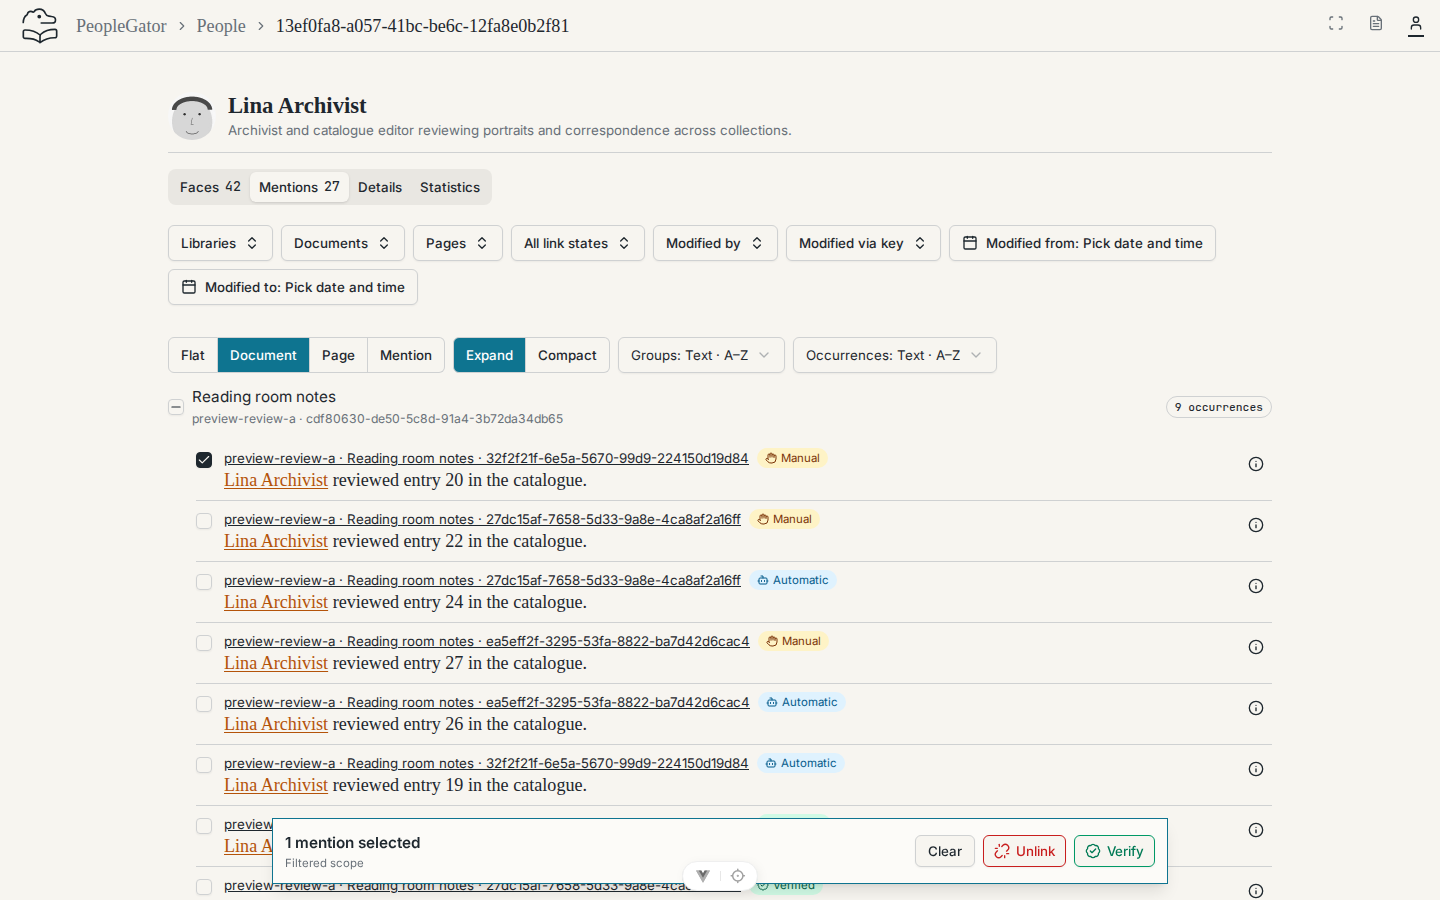
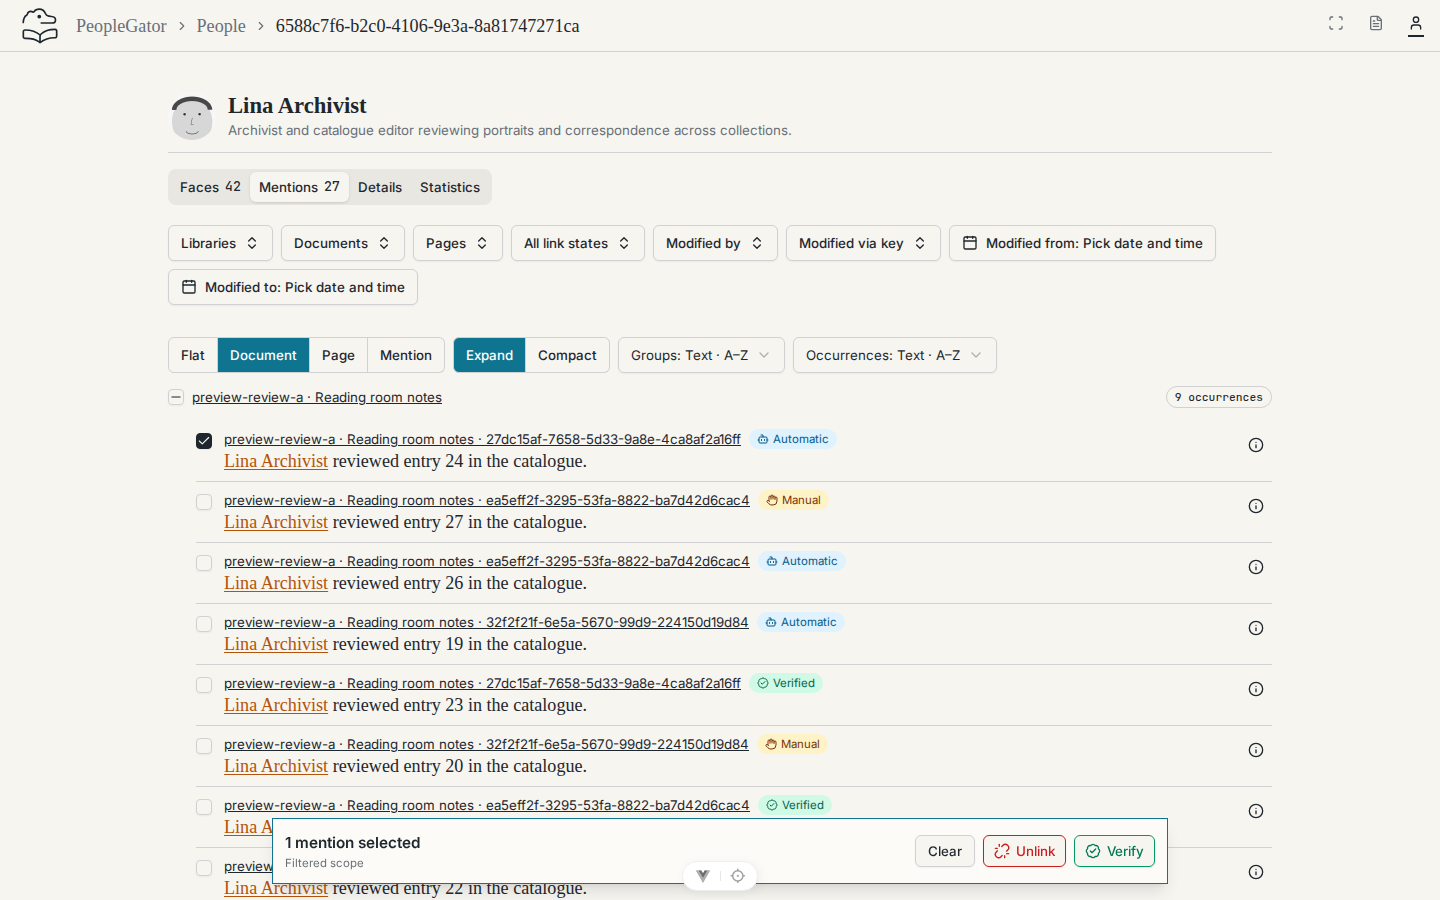
docs: refresh document mention evidence for linked headings (#80)

diff --git a/docs/evidence/issue80/README.md b/docs/evidence/issue80/README.md
@@ -92,3 +92,8 @@ headings show full document and page UUIDs, wrapping without horizontal overflow
 `mentions-flat-compact-*` and `mentions-page-compact-*` show the compact labels.
 Group Verify now skips occurrences that are already verified, so its count reports
 only changed records. Other mention captures predate the full-UUID labels.
+
+Document view group headings use the occurrence-link style: an underlined
+`library · document name` link that opens the document's scans
+(`/scans?document=…`), without the document UUID. `mentions-document-*` is
+refreshed; the link was followed at both viewport sizes without page errors.
